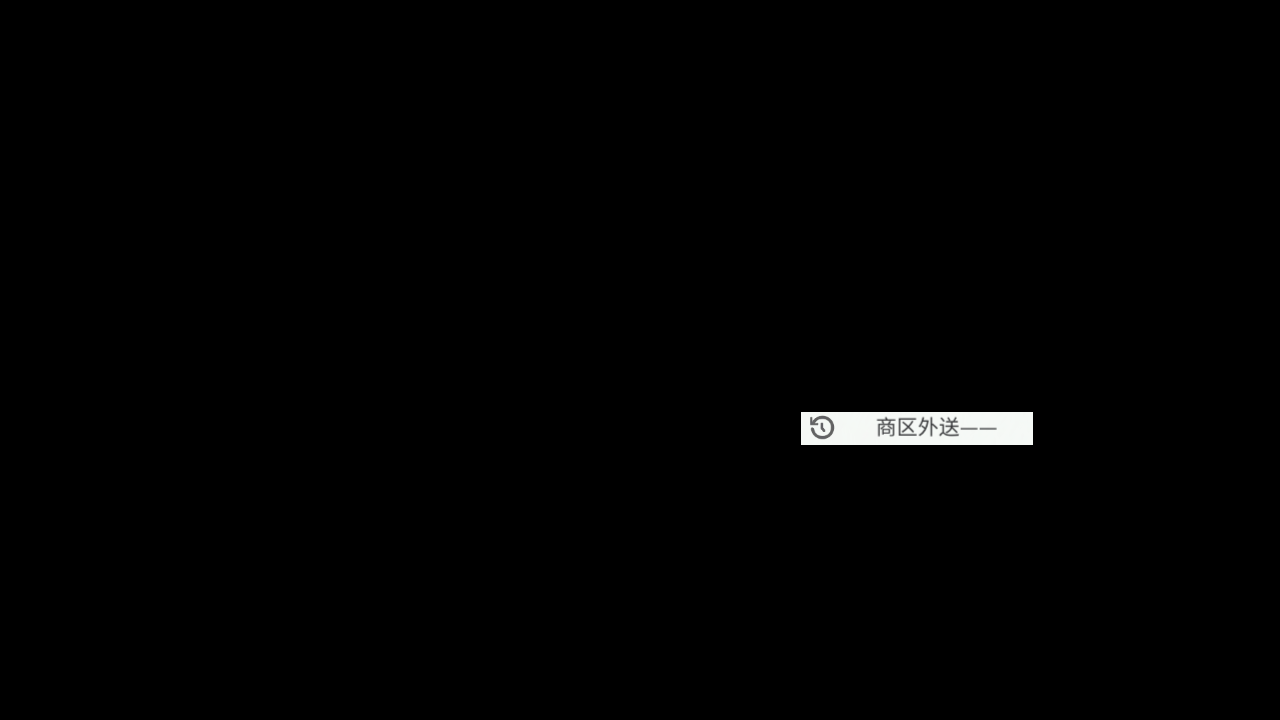
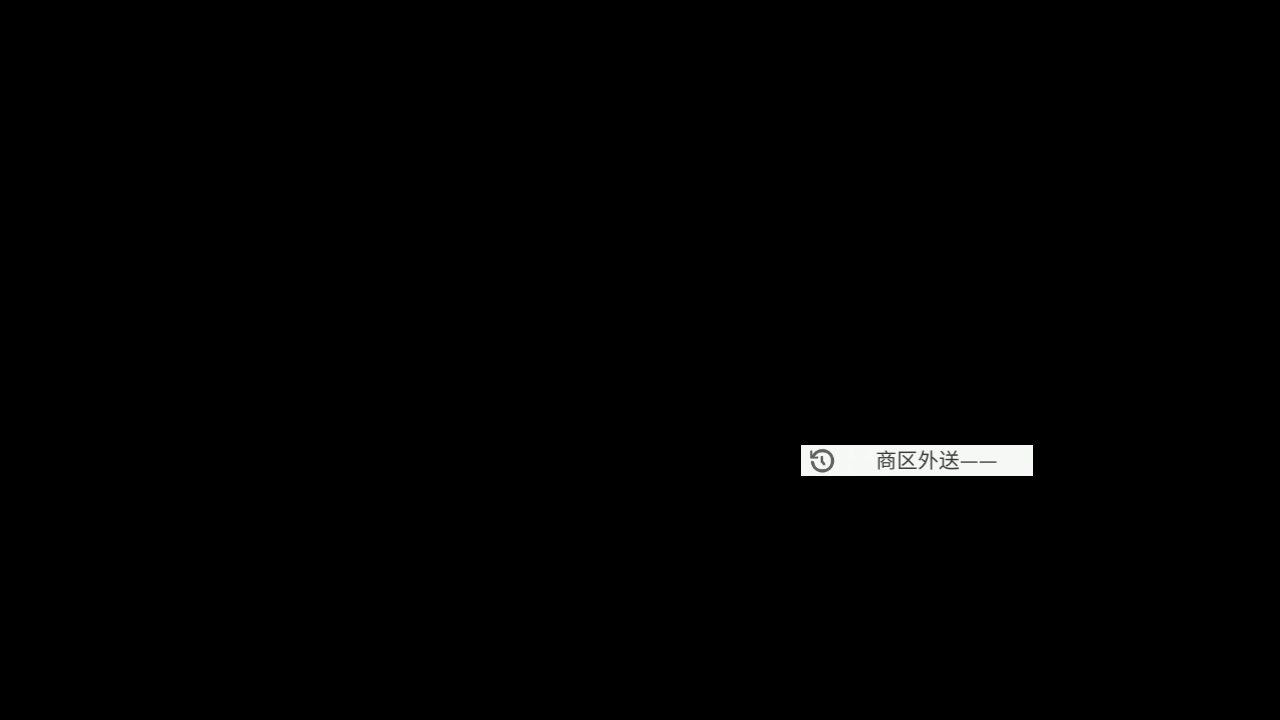
fix(island): 修复岛屿计划-每日-商区外送服务 按钮错位的问题
对调了BUSINESS_DELIVERY_THREE_OPTION_INTERACT和BUSINESS_DELIVERY_TWO_OPTION_INTERACT的图片及坐标

Changed region(s): [[0.625, 0.55, 0.8125, 0.6722]]

diff --git a/module/island_daily_interact/assets.py b/module/island_daily_interact/assets.py
@@ -5,8 +5,8 @@ from module.base.template import Template
 # Don't modify it manually.
 
 BUSINESS_DELIVERY_AMOMA_INTERACT = Button(area={'cn': (801, 479, 1033, 510), 'en': (801, 479, 1033, 510), 'jp': (801, 479, 1033, 510), 'tw': (801, 479, 1033, 510)}, color={'cn': (231, 231, 231), 'en': (231, 231, 231), 'jp': (231, 231, 231), 'tw': (231, 231, 231)}, button={'cn': (801, 479, 1033, 510), 'en': (801, 479, 1033, 510), 'jp': (801, 479, 1033, 510), 'tw': (801, 479, 1033, 510)}, file={'cn': './assets/cn/island_daily_interact/BUSINESS_DELIVERY_AMOMA_INTERACT.png', 'en': './assets/cn/island_daily_interact/BUSINESS_DELIVERY_AMOMA_INTERACT.png', 'jp': './assets/cn/island_daily_interact/BUSINESS_DELIVERY_AMOMA_INTERACT.png', 'tw': './assets/cn/island_daily_interact/BUSINESS_DELIVERY_AMOMA_INTERACT.png'})
-BUSINESS_DELIVERY_THREE_OPTION_INTERACT = Button(area={'cn': (801, 445, 1033, 476), 'en': (801, 445, 1033, 476), 'jp': (801, 445, 1033, 476), 'tw': (801, 445, 1033, 476)}, color={'cn': (227, 229, 227), 'en': (227, 229, 227), 'jp': (227, 229, 227), 'tw': (227, 229, 227)}, button={'cn': (801, 445, 1033, 476), 'en': (801, 445, 1033, 476), 'jp': (801, 445, 1033, 476), 'tw': (801, 445, 1033, 476)}, file={'cn': './assets/cn/island_daily_interact/BUSINESS_DELIVERY_THREE_OPTION_INTERACT.png', 'en': './assets/cn/island_daily_interact/BUSINESS_DELIVERY_THREE_OPTION_INTERACT.png', 'jp': './assets/cn/island_daily_interact/BUSINESS_DELIVERY_THREE_OPTION_INTERACT.png', 'tw': './assets/cn/island_daily_interact/BUSINESS_DELIVERY_THREE_OPTION_INTERACT.png'})
-BUSINESS_DELIVERY_TWO_OPTION_INTERACT = Button(area={'cn': (801, 412, 1033, 445), 'en': (801, 412, 1033, 445), 'jp': (801, 412, 1033, 445), 'tw': (801, 412, 1033, 445)}, color={'cn': (228, 231, 228), 'en': (228, 231, 228), 'jp': (228, 231, 228), 'tw': (228, 231, 228)}, button={'cn': (801, 412, 1033, 445), 'en': (801, 412, 1033, 445), 'jp': (801, 412, 1033, 445), 'tw': (801, 412, 1033, 445)}, file={'cn': './assets/cn/island_daily_interact/BUSINESS_DELIVERY_TWO_OPTION_INTERACT.png', 'en': './assets/cn/island_daily_interact/BUSINESS_DELIVERY_TWO_OPTION_INTERACT.png', 'jp': './assets/cn/island_daily_interact/BUSINESS_DELIVERY_TWO_OPTION_INTERACT.png', 'tw': './assets/cn/island_daily_interact/BUSINESS_DELIVERY_TWO_OPTION_INTERACT.png'})
+BUSINESS_DELIVERY_THREE_OPTION_INTERACT = Button(area={'cn': (801, 412, 1033, 445), 'en': (801, 412, 1033, 445), 'jp': (801, 412, 1033, 445), 'tw': (801, 412, 1033, 445)}, color={'cn': (228, 231, 228), 'en': (228, 231, 228), 'jp': (228, 231, 228), 'tw': (228, 231, 228)}, button={'cn': (801, 412, 1033, 445), 'en': (801, 412, 1033, 445), 'jp': (801, 412, 1033, 445), 'tw': (801, 412, 1033, 445)}, file={'cn': './assets/cn/island_daily_interact/BUSINESS_DELIVERY_THREE_OPTION_INTERACT.png', 'en': './assets/cn/island_daily_interact/BUSINESS_DELIVERY_THREE_OPTION_INTERACT.png', 'jp': './assets/cn/island_daily_interact/BUSINESS_DELIVERY_THREE_OPTION_INTERACT.png', 'tw': './assets/cn/island_daily_interact/BUSINESS_DELIVERY_THREE_OPTION_INTERACT.png'})
+BUSINESS_DELIVERY_TWO_OPTION_INTERACT = Button(area={'cn': (801, 445, 1033, 476), 'en': (801, 445, 1033, 476), 'jp': (801, 445, 1033, 476), 'tw': (801, 445, 1033, 476)}, color={'cn': (227, 229, 227), 'en': (227, 229, 227), 'jp': (227, 229, 227), 'tw': (227, 229, 227)}, button={'cn': (801, 445, 1033, 476), 'en': (801, 445, 1033, 476), 'jp': (801, 445, 1033, 476), 'tw': (801, 445, 1033, 476)}, file={'cn': './assets/cn/island_daily_interact/BUSINESS_DELIVERY_TWO_OPTION_INTERACT.png', 'en': './assets/cn/island_daily_interact/BUSINESS_DELIVERY_TWO_OPTION_INTERACT.png', 'jp': './assets/cn/island_daily_interact/BUSINESS_DELIVERY_TWO_OPTION_INTERACT.png', 'tw': './assets/cn/island_daily_interact/BUSINESS_DELIVERY_TWO_OPTION_INTERACT.png'})
 DEVELOPMENT_PLAN_DAILY_TAB = Button(area={'cn': (25, 315, 96, 334), 'en': (25, 315, 96, 334), 'jp': (25, 315, 96, 334), 'tw': (25, 315, 96, 334)}, color={'cn': (101, 102, 104), 'en': (101, 102, 104), 'jp': (101, 102, 104), 'tw': (101, 102, 104)}, button={'cn': (25, 315, 96, 334), 'en': (25, 315, 96, 334), 'jp': (25, 315, 96, 334), 'tw': (25, 315, 96, 334)}, file={'cn': './assets/cn/island_daily_interact/DEVELOPMENT_PLAN_DAILY_TAB.png', 'en': './assets/cn/island_daily_interact/DEVELOPMENT_PLAN_DAILY_TAB.png', 'jp': './assets/cn/island_daily_interact/DEVELOPMENT_PLAN_DAILY_TAB.png', 'tw': './assets/cn/island_daily_interact/DEVELOPMENT_PLAN_DAILY_TAB.png'})
 DEVELOPMENT_PLAN_DAILY_TAB_CHECK = Button(area={'cn': (25, 315, 96, 334), 'en': (25, 315, 96, 334), 'jp': (25, 315, 96, 334), 'tw': (25, 315, 96, 334)}, color={'cn': (127, 214, 255), 'en': (127, 214, 255), 'jp': (127, 214, 255), 'tw': (127, 214, 255)}, button={'cn': (25, 315, 96, 334), 'en': (25, 315, 96, 334), 'jp': (25, 315, 96, 334), 'tw': (25, 315, 96, 334)}, file={'cn': './assets/cn/island_daily_interact/DEVELOPMENT_PLAN_DAILY_TAB_CHECK.png', 'en': './assets/cn/island_daily_interact/DEVELOPMENT_PLAN_DAILY_TAB_CHECK.png', 'jp': './assets/cn/island_daily_interact/DEVELOPMENT_PLAN_DAILY_TAB_CHECK.png', 'tw': './assets/cn/island_daily_interact/DEVELOPMENT_PLAN_DAILY_TAB_CHECK.png'})
 DEVELOPMENT_PLAN_WEEKLY_TAB = Button(area={'cn': (25, 380, 96, 400), 'en': (25, 380, 96, 400), 'jp': (25, 380, 96, 400), 'tw': (25, 380, 96, 400)}, color={'cn': (95, 96, 99), 'en': (95, 96, 99), 'jp': (95, 96, 99), 'tw': (95, 96, 99)}, button={'cn': (25, 380, 96, 400), 'en': (25, 380, 96, 400), 'jp': (25, 380, 96, 400), 'tw': (25, 380, 96, 400)}, file={'cn': './assets/cn/island_daily_interact/DEVELOPMENT_PLAN_WEEKLY_TAB.png', 'en': './assets/cn/island_daily_interact/DEVELOPMENT_PLAN_WEEKLY_TAB.png', 'jp': './assets/cn/island_daily_interact/DEVELOPMENT_PLAN_WEEKLY_TAB.png', 'tw': './assets/cn/island_daily_interact/DEVELOPMENT_PLAN_WEEKLY_TAB.png'})
